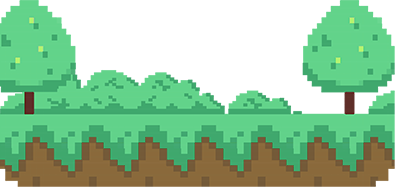
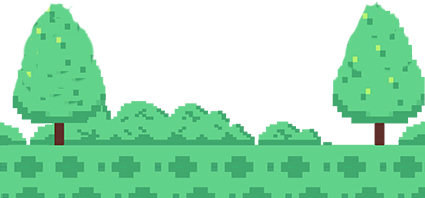
fix: agent UI调整

diff --git a/src/pages/Chat/components/AgentStage/index.tsx b/src/pages/Chat/components/AgentStage/index.tsx
@@ -2,38 +2,71 @@ import './index.css';
 import avatarIcon from '@/assets/images/chat/avatar.png';
 import walletIcon from '@/assets/icons/wallet.svg';
 import lifeBarIcon from '@/assets/icons/life-bar.svg';
-import dialogIcon from '@/assets/images/border-bg/dialog.svg';
 import agentIcon from '@/assets/images/agent/hw.gif';
 import stageIcon from '@/assets/images/agent/stage.png';
+import { useEffect, useState } from 'react';
 
 const AgentStage = ({ isHidden }: { isHidden: boolean }) => {
+  const tips = [
+    'I am a smart agent, I can help you solve problems and answer questions.',
+    'I am a smart agent, I can help you solve problems and answer questions.',
+    'I am a smart agent, I can help you solve problems and answer questions.',
+    'I am a smart agent, I can help you solve problems and answer questions.',
+  ];
+
+  const tip = tips[Math.floor(Math.random() * tips.length)];
+
+  const [currentTip, setCurrentTip] = useState(tip);
+
+  // 每10秒换一个tip
+  useEffect(() => {
+    const interval = setInterval(() => {
+      setCurrentTip(tips[Math.floor(Math.random() * tips.length)]);
+    }, 10000);
+    return () => clearInterval(interval);
+  }, []);
+
   return (
-    <div className={`relative transition-all duration-300 w-full ${isHidden ? 'h-0' : 'h-2/5'}`}>
-      <div className={`absolute top-0 left-0 w-full h-full`}>
-        {/* 头像名称血条 */}
-        <div className="flex items-center justify-center">
-          <div className="relative agent-stage-avatarwrap">
-            <img src={avatarIcon} alt="avatar" className="w-[100px] h-[100px] object-cover" />
+    <div className={`relative transition-all duration-300 w-full ${isHidden ? 'h-0 opacity-0' : 'h-[30%] opacity-100'}`}>
+      <div className={`absolute top-0 left-0 w-full flex flex-col justify-between ${isHidden ? 'h-0' : 'h-full'}`}>
+        <div className="flex items-center justify-between mx-[20px] mt-[20px]">
+          <div className="flex items-center justify-start">
+            <div className="relative frc-center agent-stage-avatarwrap">
+              <img src={avatarIcon} alt="avatar" className="w-[30px] h-[30px] object-cover" />
+            </div>
+            <div className="ml-[16px] flex flex-col items-start justify-center gap-1">
+              <span className="flex items-center gap-2">
+                <span className="text-[12px]">Blommy</span>
+                <span className="text-[12px] text-[#39CE78]">Level 7</span>
+              </span>
+              <span className="flex items-center gap-2">
+                <span className="text-[12px]">Exp</span>
+                <img src={lifeBarIcon} alt="life-bar" className="w-[16px] h-[16px] object-cover" />
+                <span className="text-[12px]">100</span>
+              </span>
+            </div>
           </div>
-          <div className="text-white text-2xl font-bold">
-            <span>
-              <span>Blommy</span>
-              <span>Level 7</span>
-            </span>
-            <span className="flex items-center gap-2">
-              <span>Exp</span>
-              <img src={lifeBarIcon} alt="life-bar" className="w-[16px] h-[16px] object-cover" />
-              <span>100</span>
-            </span>
-          </div>
+          <img src={walletIcon} alt="wallet" className="w-[25px] h-[25px] object-contain" />
         </div>
-        {/* 钱包入口 */}
-        <img src={walletIcon} alt="wallet" className="w-[44px] h-[44px] object-cover" />
         {/* agent(脚下椭圆，图片，礼物，血瓶，爱心) */}
-        <img src={agentIcon} alt="agent" className="w-[160px] h-[160px] object-cover" />
-        <img src={stageIcon} alt="stage" className="w-[160px] h-[160px] object-cover" />
-        {/* 说话框 */}
-        <img src={dialogIcon} alt="dialog" className="w-[44px] h-[44px] object-cover" />
+        <div className="relative w-full">
+          <div className="absolute z-1 bottom-[50px] left-[70px] frc-center">
+            <div className="dialog-wrap">
+              <p className="w-[180px] text-[12px] inknut-antiqua">{currentTip}</p>
+            </div>
+          </div>
+          <img
+            src={agentIcon}
+            alt="agent"
+            className="w-[120px] h-[120px] object-contain transform scale-x-[-1] absolute z-2 bottom-0 right-110px"
+          />
+          <img
+            src={stageIcon}
+            alt="stage"
+            className="w-[130px] h-[130px] object-contain absolute z-1 bottom-0 right-110px translate-y-[30%]"
+          />
+        </div>
+
         {/* 背景 */}
         <div className="agent-stage-bg"></div>
       </div>

diff --git a/src/pages/Chat/components/ChatPanel/index.tsx b/src/pages/Chat/components/ChatPanel/index.tsx
@@ -3,6 +3,8 @@ import './index.css';
 import { ChatInput } from '../ChatInput';
 import { ChatHistory } from '../ChatList/ChatHistory';
 import { Message } from '@/types/chat';
+import { ReactSVG } from 'react-svg';
+import arrowUpIcon from '@/assets/icons/arrow2-up.svg';
 
 const ChatPanel: React.FC<{ isFullScreen: boolean; toggleFullScreen: () => void }> = ({ isFullScreen, toggleFullScreen }) => {
   const [messages, setMessages] = useState<Message[]>([
@@ -31,15 +33,19 @@ const ChatPanel: React.FC<{ isFullScreen: boolean; toggleFullScreen: () => void 
 
   return (
     <div
-      className={`bg-white w-full flex flex-col justify-between rounded-t-3xl transition-all duration-300 ${
-        isFullScreen ? 'h-screen' : 'h-[3/5]'
+      className={`bg-white z-10 w-full flex flex-col justify-between transition-all duration-300 ${
+        isFullScreen ? 'h-screen' : 'h-[70%] rounded-t-3xl'
       }`}
     >
-      <div className="flex-1 overflow-y-auto p-4 border border-gray-300 relative">
-        <ChatHistory messages={messages} />
-        <div className="absolute top-2 right-2 cursor-pointer text-sm text-blue-500" onClick={toggleFullScreen}>
-          {isFullScreen ? 'Switch to 3/5' : 'Switch to Fullscreen'}
+      <div className="flex-1 overflow-y-auto pt-[48px] pb-[16px] border border-gray-300 relative">
+        <div className="absolute top-0 left-0 p-[16px] box-border w-full frc-center" onClick={toggleFullScreen}>
+          {isFullScreen ? (
+            <ReactSVG src={arrowUpIcon} className="w-4 h-4 rotate-180 link-cursor" />
+          ) : (
+            <ReactSVG src={arrowUpIcon} className="w-4 h-4 link-cursor" />
+          )}
         </div>
+        <ChatHistory messages={messages} />
       </div>
       <div className="textarea-border border-box flex items-center justify-between m-2 p-2">
         <ChatInput placeholder={inputValue ? '' : 'Chat with me...'} onSend={handleSendMessage} />

diff --git a/src/pages/Chat/components/AgentStage/index.css b/src/pages/Chat/components/AgentStage/index.css
@@ -3,9 +3,9 @@
   bottom: -30px;
   left: 0;
   width: 100%;
-  height: 84px;
+  height: 198px;
   background-image: url('../../../../assets/images/chat/bg.png');
-  background-size: 450px 84px;
+  background-size: 425px 198px;
   background-position: bottom;
   background-repeat: repeat-x;
 }
@@ -17,4 +17,23 @@
   background-size: 44px 44px;
   background-position: center;
   background-repeat: no-repeat;
+}
+
+.dialog-wrap {
+  width: 220px;
+  height: 80px;
+  background-image: url('../../../../assets/images/border-bg/dialog.svg');
+  background-size: 220px 80px;
+  background-position: center;
+  background-repeat: no-repeat;
+}
+
+/* 超过2行... */
+.dialog-wrap p {
+  display: -webkit-box;
+  -webkit-box-orient: vertical;
+  -webkit-line-clamp: 3;
+  line-clamp: 3;
+  overflow: hidden;
+  margin-left: 16px;
 }

diff --git a/src/pages/Chat/components/ChatList/ChatMessage.tsx b/src/pages/Chat/components/ChatList/ChatMessage.tsx
@@ -11,8 +11,8 @@ export const ChatMessage: React.FC<Message> = ({ text, user }) => {
       <div
         className={`flex flex-col max-w-[80%] items-center px-6 py-2 ${
           isUser
-            ? 'bg-#2A2A2A text-white rounded-tl-xl rounded-tr-xl rounded-bl-xl rounded-br-none'
-            : 'bg-#F3F3F3 text-black rounded-tl-xl rounded-tr-xl rounded-bl-none rounded-br-xl'
+            ? 'bg-#2A2A2A text-white rounded-tl-[24px] rounded-tr-[24px] rounded-bl-[24px] rounded-br-none'
+            : 'bg-#F3F3F3 text-black rounded-tl-[24px] rounded-tr-[24px] rounded-bl-none rounded-br-[24px]'
         }`}
       >
         <p className="text-[12px] inknut-antiqua">{text}</p>

diff --git a/src/pages/Chat/components/ChatList/ChatHistory.tsx b/src/pages/Chat/components/ChatList/ChatHistory.tsx
@@ -50,7 +50,7 @@ export const ChatHistory: React.FC<ChatHistoryProps> = ({ messages, loading = fa
   }
 
   return (
-    <div ref={containerRef} onScroll={handleScroll} className={`flex-1 overflow-y-auto p-4 space-y-4 ${className}`}>
+    <div ref={containerRef} onScroll={handleScroll} className={`flex-1 overflow-y-auto p-4 pt-0 space-y-4 ${className}`}>
       {/* 如果消息较多，可以添加"回到顶部"按钮 */}
       {messages.length > 10 && !autoScroll && (
         <button

diff --git a/src/styles/cursor.css b/src/styles/cursor.css
@@ -16,6 +16,11 @@ textarea {
   cursor: url('../assets/cursors/Text_Select.cur'), text;
 }
 
+.link-cursor {
+  cursor: url('../assets/cursors/Link_Select.cur'), pointer;
+}
+
+a,
 button:hover,
 button:active,
 button:focus {
